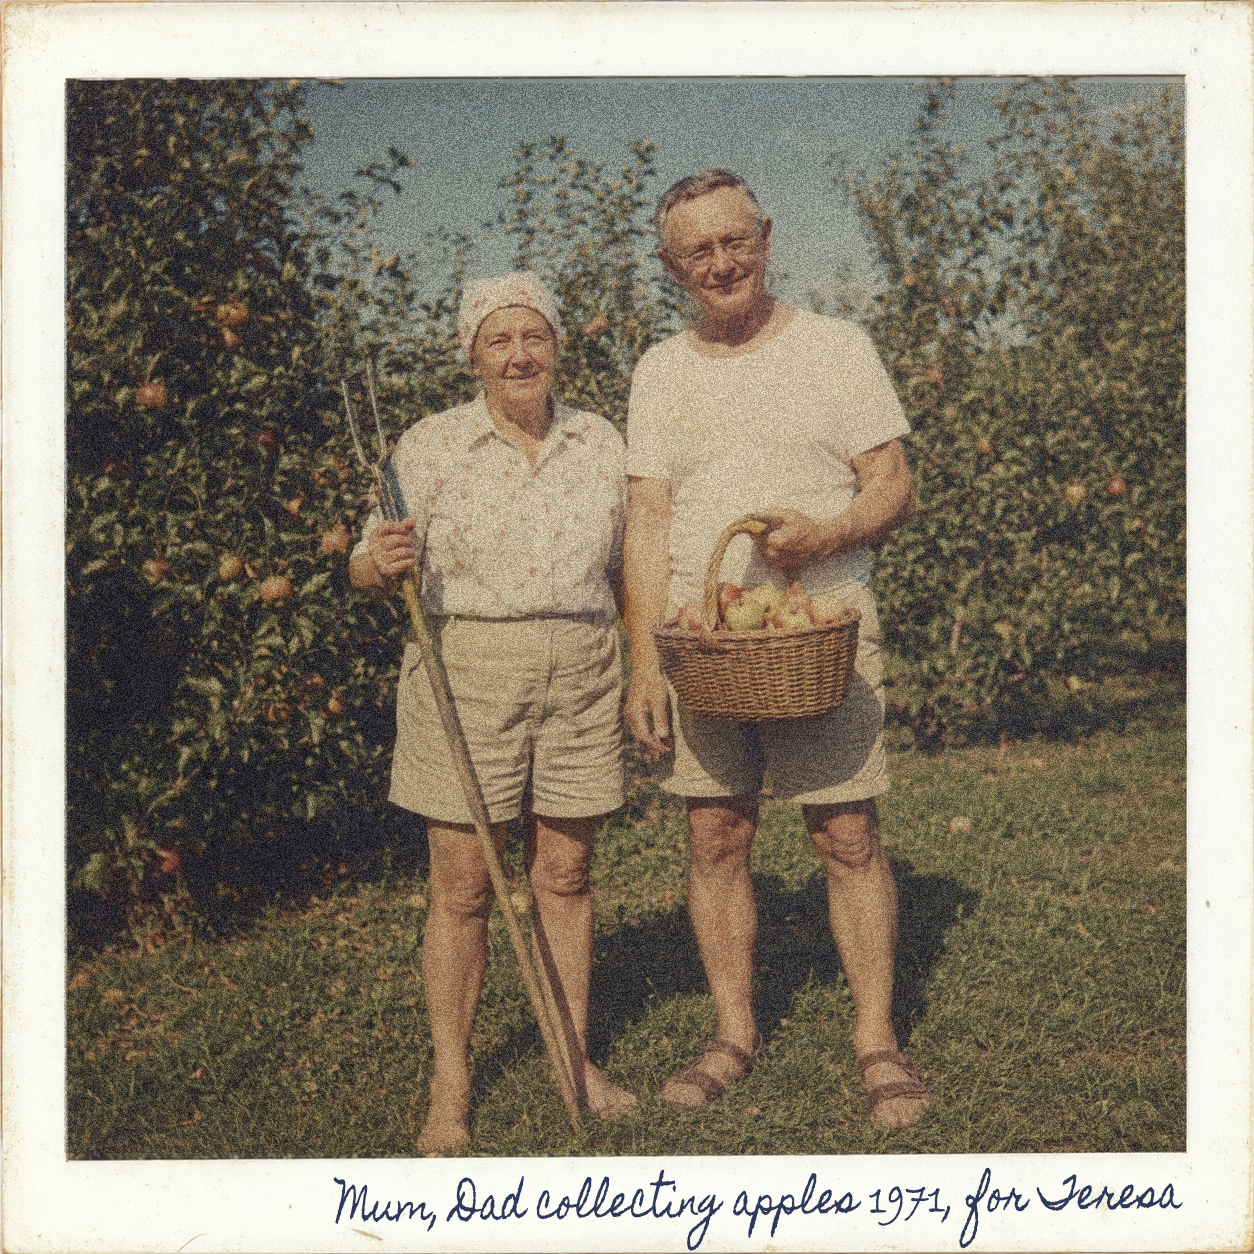
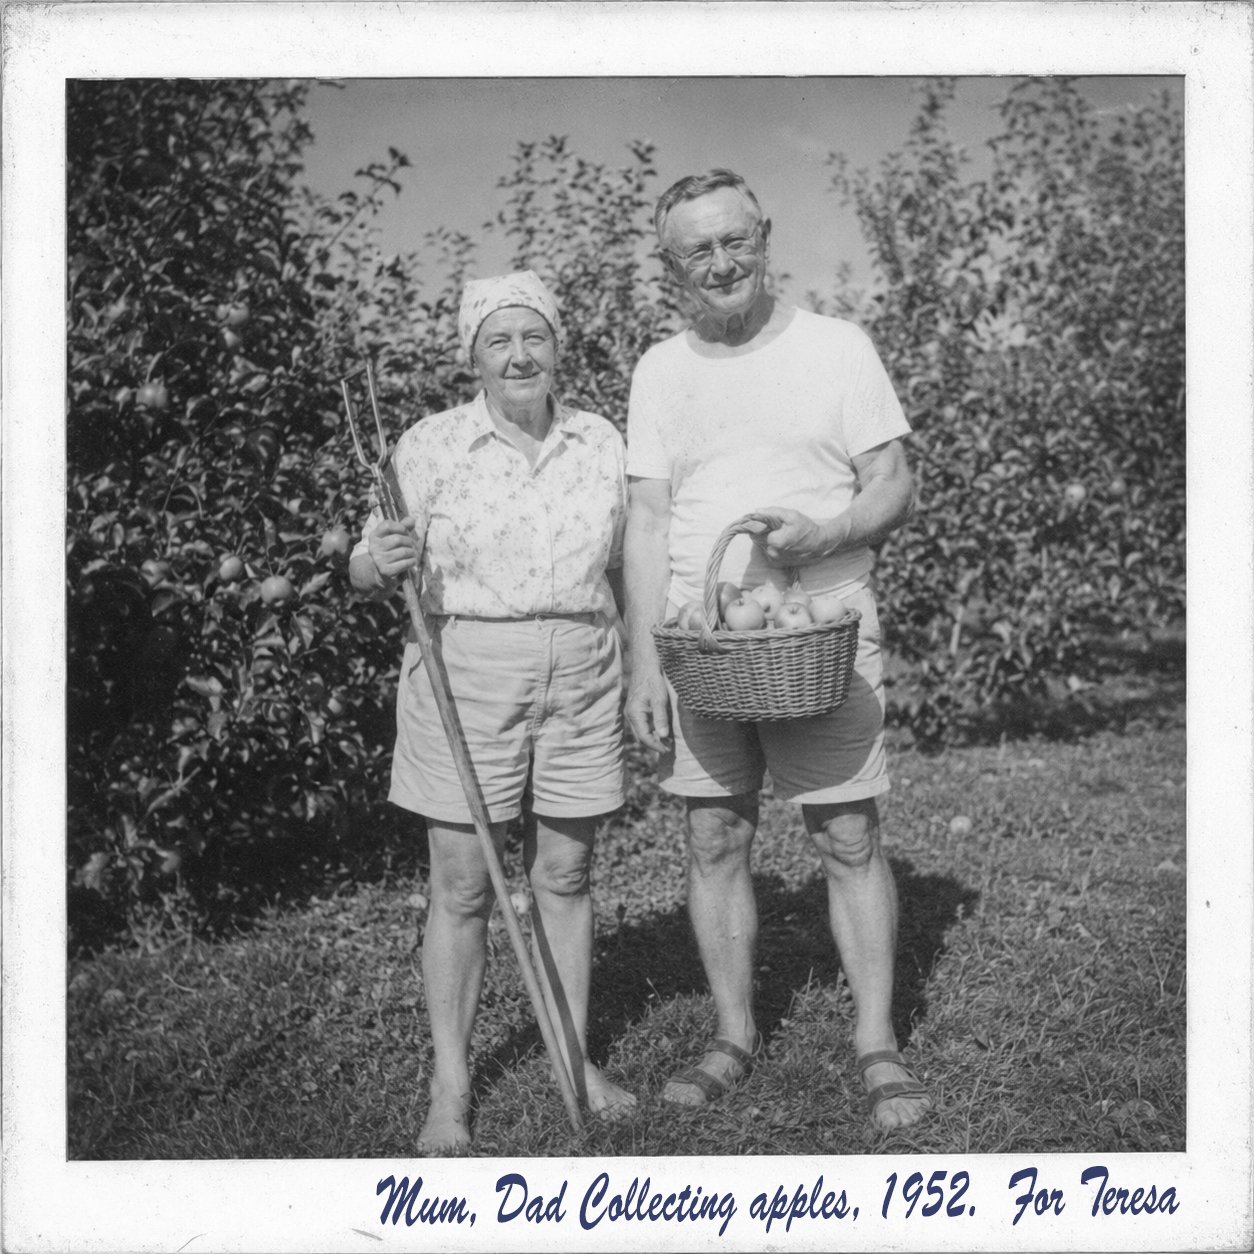
.

diff --git a/docs/story-timeline.md b/docs/story-timeline.md
@@ -1,27 +1,28 @@
 # Story Timeline & Character Audit
 
 A snapshot of every character, date and connection findable in the shipped
-assets as of **11 August 2026** (third pass). This is a developer reference,
+assets as of **11 August 2026** (sixth pass). This is a developer reference,
 not player-facing content — it exists to keep new faxes, records and photos
 consistent with what's already been written, and it will go stale as soon as
 new content lands. Re-derive it (or at least re-check the "Known gaps and
 inconsistencies" section) after any story-content pass, rather than trusting
 it blindly.
 
-Since the previous pass: Harry Whitmore's 1907 book is now fully coded (it
-was a planned-but-missing item before), a new McLeod-pendant mystery thread
-was added, and several previously-flagged issues are now resolved —
-`arthurWhitmore.png`'s path case now matches the file on disk, the McLeod
-apple-orchard photo path now correctly points under `assets/photos/` and the
-file exists, William McLeod's death year is consistent (1957) everywhere,
-and the "Guardians of the North" evidence is awarded from the library record
-itself rather than the unrelated newspaper article that briefly held it.
+Since the previous pass: two of the three in-game login credentials turn out
+to be hidden in the evidence photo art itself (handwritten notes, not JSON
+text) rather than being undiscoverable as previously assumed — see §3,
+"Credentials hidden in evidence photos," both now verified to read exactly
+right. The `t.mcleod` archives account is identified as **Teresa McLeod**,
+William and Margaret's daughter, via a handwritten dedication on their
+orchard polaroid, dated 1952. Also spotted a Tony Spencer ↔ Anthony "Tony"
+Worthing naming coincidence to go with the existing Simon one.
 
 Sources audited: `assets/story_en.md`, `assets/reportsEvidences_en.json`,
 `assets/photos_evidences_en.json`, `assets/web-content/{zoomsearch,library,
-police,archives,standalone-pages}.json`, and the photo files under
+police,archives,standalone-pages}.json`, the photo files under
 `assets/photos/` / `rawResources/` including the ones not yet wired into any
-catalog.
+catalog, and — this pass — the actual pixel content of the photos named in
+§3 below, not just their JSON metadata.
 
 ---
 
@@ -63,6 +64,7 @@ career"), that's noted rather than invented.
 | 1934 | Constable James Fletcher retires from the NWMP, having been awarded the King's Police Medal for his role in the 1901 search effort. Settles in Gray Stacks, Alberta with wife Hannah (Fletcher, the author — see above) and pet Labrador Oscar. | `police.json` (jamesfletcher) |
 | 1951 | James Fletcher dies. | `police.json` (jamesfletcher) |
 | 1952 | George Mackenzie, aged 80, has his celebrated moustache measured before a crowd at a local sports hall. | photo `georgemackenzie.png` |
+| 1952 | A family polaroid captioned "Mum, Dad collecting apples, 1952. For Teresa" shows William and Margaret McLeod at the Maple Grove orchard, five years before William's death. The note identifies **Teresa** as their daughter — she is who holds the archives Subscriber account (`t.mcleod`). | photo `williamAndMargaretMcLeodApples.png` |
 | 1954 | George Mackenzie dies. | `police.json` (georgemackenzie) |
 | 1955 | Emile Beaulieu dies, aged 84. | `police.json` (emilebeaulieu) |
 | 1957 | William McLeod dies peacefully, aged 87. Remembered in an obituary in the *Maple Grove Times* ("Remembering a great Guardian") for his steady leadership and for recovering the gold pendant during the 1901 search. Margaret continues the orchard/property alone. | `police.json` (williammcleod); `zoomsearch.json` (margaretmcleod); `archives.json` (williammcleodfindpendant) |
@@ -81,7 +83,7 @@ career"), that's noted rather than invented.
 - **Andrew John Spencer** (b. 12 Aug 1888 – d. 28 Jul 1901) — elder brother. Returns from the cave fatally injured; his account of the second visit, cut short when he loses consciousness, is the only first-hand record of what happened.
 - **Askew Arnold "Arnie" Spencer** (b. 6 Nov 1891 – missing 27 Jul 1901, presumed dead) — the missing boy the entire case centers on.
 - **John & Diane Spencer** — the boys' parents; ex-banker turned farmer and his wife. Diane's reaction ("You'll never set foot in that forest again!") is the story's most direct emotional beat.
-- **Simon** and **Tony** — the Spencers' two farmhands, early thirties, present the morning the boys leave for the cave the second time. *Possible unconfirmed link:* a "Simon Cresswell" appears in the 1904 Honey Dew Caving Club photo — same first name, same district, plausible timeframe — but nothing in the assets confirms they're the same person. Worth deciding deliberately rather than by coincidence if this thread gets developed.
+- **Simon** and **Tony** — the Spencers' two farmhands, early thirties, present the morning the boys leave for the cave the second time. *Possible unconfirmed link:* the 1904 Honey Dew Caving Club photo has both a "Simon Cresswell" and an "Anthony Worthing" — Tony being a standard nickname for Anthony — same first names, same district, plausible timeframe, and *both* farmhands would map to *both* of these club members in the same photo. Nothing in the assets confirms either link, but the pair reinforces itself. Worth deciding deliberately rather than by coincidence if this thread gets developed.
 - **The stranger on the path** — unnamed man who tells the boys about the "bottomless" hole and the old mine, then vanishes into the trees. Never identified or revisited by any other asset. A loose thread by construction.
 
 ### North-West Mounted Police (the searchers)
@@ -92,7 +94,7 @@ career"), that's noted rather than invented.
 - **Cpl. Emile Beaulieu** — later a celebrated professional climber; retires 1915, dies 1955.
 - **Lt. William McLeod** — frontier officer, recovered a gold pendant during the 1901 search that never made it into the case file, retires with honour in 1920, settles in Ontario with wife Margaret, dies 1957 aged 87 (obituary: "Remembering a great Guardian," *Maple Grove Times*).
 - **Cpl. George Mackenzie** — quietly dependable service, retires 1931, dies 1954; locally famous for the longest moustache in Canada.
-- **Administrator / t.fairchild / t.mcleod** — police- and archive-database accounts with no attached character yet. `t.fairchild` (police, Level 3, `mapleLaw91`) is credentials Brian Whitmore passes along, sourced from an unnamed contact. `t.mcleod` (archives Subscriber account, `apple1`) shares William McLeod's surname closely enough to suggest a descendant, but nothing confirms it. Both are loose threads ready to be given a face later.
+- **Administrator / t.fairchild** — police-database accounts with no attached character yet. `t.fairchild` (Level 3, `mapleLaw91`) is credentials Brian Whitmore passes along, sourced from an unnamed contact — still a loose thread.
 
 ### The Whitmore family (the benefactors)
 ```
@@ -113,12 +115,37 @@ Brian's great-uncle, but "Uncle" reads as the informal family term).
 ### Authors, family, and everyone else
 - **Hannah Fletcher** — author of *Mysteries of the Old North West* (1906); James Fletcher's wife, living with him in Gray Stacks, Alberta.
 - **Margaret McLeod** — William's wife, ran an apple orchard near Maple Grove, Ontario.
+- **Teresa McLeod** — William and Margaret's daughter, identified by the handwritten dedication "Mum, Dad collecting apples, 1952. For Teresa" on the family orchard polaroid. Holds the archives Subscriber account (`t.mcleod` / `apple1`), whose credentials are themselves handwritten in the corner of the "Guardians of the North" evidence photo — see "Credentials hidden in evidence photos" below.
 - **Honey Dew Caving Club, 1904 roster** — Thomas O'Rourke, Simon Cresswell, Henry Whitmore, Robert Johnstone, Anthony Worthing, Sam Henderson, Paul Greenwood, plus one still-unidentified member. Only O'Rourke and Henry Whitmore have any further biography elsewhere.
 - **Cat J Roman** — author of *Guardians of the North* (1988), the source of McLeod's retirement photo. No other appearances.
 
 ---
 
-## 3. Current mystery threads
+## 3. Credentials hidden in evidence photos
+
+Two of the three login credentials in the game are not exposed anywhere in
+JSON text — they're handwritten directly onto the evidence photo art, only
+visible if the player actually looks closely (e.g. the magnifier) at the
+photo once it's been collected. This is the actual intended discovery path
+for these logins, not a hidden dev cheat, and it changes the practical
+order of a playthrough: both Library pickups below should happen *before*
+their matching login is needed. See `happypath.md`, which has been updated
+to route through these.
+
+| Photo (Library pickup) | What's handwritten on it | Unlocks |
+| --- | --- | --- |
+| `mysteriesOldNW.png` ("Mysteries of the Old North West" evidence) | Top-right corner: **"j.fletcher / oscar123"** | Police Records Level 1. Matches the live `j.fletcher` / `oscar123` account exactly. |
+| `guardiansOfTheNorth.png` ("Guardians of the North" evidence) | Top-left corner: **"Ontario apples (t.mcleod / apple1)"** | Canada Newspaper Archive Subscriber access. Matches the live `t.mcleod` / `apple1` account exactly. |
+
+Once logged into the Archives with those credentials, searching Ontario +
+`mcleod` (Level 1, see `happypath.md` §3d) surfaces the `williammcleodfindpendant`
+article, which displays `williamAndMargaretMcLeodApples.png` — the polaroid
+that identifies `t.mcleod` as **Teresa McLeod**, William and Margaret's
+daughter (see the character index above).
+
+---
+
+## 4. Current mystery threads
 
 Things that read as deliberate, unresolved hooks rather than mistakes —
 worth knowing about so future content doesn't accidentally "solve" or
@@ -126,22 +153,24 @@ contradict them before they're meant to be addressed.
 
 - **The gold pendant.** William McLeod recovered a gold pendant during the August 1901 search (per his 1957 obituary), but the official three-month case report filed that October lists only a handkerchief, a lunchbox, rope and a torch — no pendant. Its ownership is described as "classified... due to the investigation officially still remaining open."
 - **The vandalised page.** The library's copy of Harry Whitmore's 1907 book has had a page torn out. The catalog description of that missing page explicitly ties it to McLeod's pendant, making the book a plausible link between the pendant and the case that never recorded it. Nobody in the shipped content is on record as knowing who vandalised it.
-- **Simon the farmhand vs. Simon Cresswell.** Possibly the same person, possibly not — see the character index above.
+- **Simon and Tony the farmhands vs. Simon Cresswell and Anthony "Tony" Worthing.** Both 1901 farmhands share a first name with a member of the 1904 caving-club photo — see the character index above. If real, it would put both farmhands in the caving club three years after the tragedy.
 - **The stranger on the path.** Warns the boys about the hole, admits he hasn't heard the mine mentioned "in years," and is never seen again.
-- **t.fairchild and t.mcleod.** Two named-but-faceless database accounts, introduced purely as credentials rather than characters.
+- **t.fairchild.** Still a named-but-faceless database account, introduced purely as credentials rather than a character (unlike `t.mcleod`, now identified as Teresa McLeod — see above).
 
 ---
 
-## 4. Known gaps and inconsistencies still open
+## 5. Known gaps and inconsistencies still open
 
 These are observations, not fixes — flagging them here rather than silently
 editing content that may be intentional or already slated for a rewrite.
 
-None outstanding as of this pass. The two previously listed here —
+None outstanding as of this pass. The handwritten police username on
+`mysteriesOldNW.png` previously read `james.f` against the live `j.fletcher`
+account; the art now reads `j.fletcher` and matches exactly.
 
 ---
 
-## 5. Source map
+## 6. Source map
 
 | File | What it covers |
 | --- | --- |
@@ -153,3 +182,4 @@ None outstanding as of this pass. The two previously listed here —
 | `assets/web-content/library.json` | Hannah Fletcher's, Cat J. Roman's and Harry Whitmore's books. |
 | `assets/web-content/archives.json` | Newspaper coverage of the above, plus the McLeod pendant obituary — gated by subscriber access level. |
 | `assets/web-content/standalone-pages.json` | Whitmore & Sons' own site; the Honey Dew Caving Club's own site. |
+| `assets/photos/{mysteriesOldNW,guardiansOfTheNorth,williamAndMargaretMcLeodApples}.png` | Carry story content in the image art itself, not the JSON — see §3. |

diff --git a/docs/happypath.md b/docs/happypath.md
@@ -1,0 +1,205 @@
+# Happy Path — a full playthrough, start to current end-of-content
+
+A step-by-step walkthrough of everything a player can currently do, in an
+order that reaches 100% of the shipped evidence and story content. Written
+as of **11 August 2026**, revised after discovering that two of the three
+login credentials are hidden in the evidence photo art itself. Like
+`story-timeline.md`, this is a developer reference — a QA/dev script for
+exercising every fax, record and evidence pickup in the game as it exists
+today — not something shown to the player. Re-derive it after any new
+content lands; it will drift the moment a new fax trigger, record or
+evidence item is added.
+
+**Ordering matters here in a way it might not look like at first glance.**
+Both Police Records Level 1 and the Archives Subscriber login are gated
+behind credentials that are handwritten directly onto two Library evidence
+photos (not present in any JSON text) — so both Library pickups need to
+happen, and the resulting photos need to be examined closely, *before*
+those logins are attempted. Sections below are ordered to reflect that.
+
+---
+
+## 0. Starting state
+
+New Game seeds:
+- **Story folder**: the background story (`story_en.md`).
+- **Photos folder**: `askewAndrew` (the only photo of the boys together) and `caveEntrance`.
+- **Reports folder**: empty.
+- **Facsimile**: empty queue, two timers armed (see step 2).
+
+---
+
+## 1. Read the desk
+
+1. Open the **Story** stack and read the background story — the 1901
+   tragedy in full, as Andrew told it before he died.
+2. Open the **Photos** folder and look at the two starting photos.
+3. Optionally explore **Notes** and **Paint** (ten free-form pages each,
+   no story content) and the desk **ashtray** (cosmetic). None of these
+   gate anything.
+
+---
+
+## 2. Let the intro faxes arrive
+
+The facsimile machine is timer-driven from the moment New Game is clicked
+(`scheduleNewGameIntroFacsimiles()` in `ui.js`):
+
+| When | Fax | Result |
+| --- | --- | --- |
+| ~10s after New Game | **"Welcome to the Investigation"** | Orients the player: read the story, explore the desk. Purely informational — `awardsEvidence: false`, never becomes a report. |
+| ~40s after New Game | **The missing person report** | Becomes the **missingReport** evidence in the Reports folder — the actual 1901 NWMP case file. |
+
+Open the **Facsimile** machine after each arrives (flashing light) and
+close the window to commit it. Nothing else in the game is blocked while
+waiting for these — the computer is usable immediately.
+
+---
+
+## 3. The computer — CaveOS → Netscape
+
+Click the desk computer, open **Netscape**. Do ZoomSearch and Library
+first — neither needs a login, and Library is where the other two sites'
+credentials come from.
+
+### 3a. ZoomSearch (no login)
+
+| Search | Result |
+| --- | --- |
+| `john baxley` | Awards **"Search Party outside Black Pine Silver Mine Shaft B"** photo. |
+| `black pine mine` (or `silver mine` / `mine`) | Awards **"No More!"** photo (the 1851 mine-closure poster). |
+| `mine cart` (or `minecart` / `truck` / `mine truck`) | No evidence — but the "Wacky Miners" result contains a clickable link to `whitmore-sons-iron-machinery-co.com/mining` (see step 3f). |
+| `margaret mcleod` / `apples` / `maple grove` | Flavour only — Margaret's later life. |
+| `harry whitmore` / `henry whitmore` | Flavour only — Harry's biography and Niagara Falls photo. |
+| `jerome whitmore` | Flavour only — how Jerome ended up running the family firm. |
+| `brian whitmore` | Flavour only — Brian's succession and the "today" framing. |
+
+### 3b. Library (no login)
+
+Author + title must both match exactly.
+
+| Author | Title | Result |
+| --- | --- | --- |
+| `Hannah Fletcher` | `Mysteries of the Old North West` | Awards the **mysteriesOfTheOldNorthWest** photo. **Examine it closely (magnifier) — "j.fletcher / oscar123" is handwritten in the top-right corner.** This is the Police Records Level 1 login (see step 3c) and matches the live account exactly. |
+| `Cat J Roman` | `Guardians Of The North` | Awards the **library-guardiansofthenorth** photo. **Examine it closely — "Ontario apples (t.mcleod / apple1)" is handwritten beside it.** This is the Archives Subscriber login (see step 3d), and matches the live account exactly. |
+| `Henry Whitmore` | `Strange Things Found In Even Stranger Places` | Awards the **"Strange Things Found In Even Stranger Places"** photo — the vandalised page, see `story-timeline.md` §4 for the pendant connection it hints at. |
+
+### 3c. Police Records
+
+Login is exact-match, case-sensitive. Levels stack — each new login
+replaces the session at a higher level.
+
+| Login as | Password | Unlocks |
+| --- | --- | --- |
+| *(default)* Public | — | Level 0: `james fletcher`, `emile` / `emile beaulieu`, `william` / `william mcleod`, `george` / `george mackenzie` — all flavour, no evidence. |
+| `j.fletcher` | `oscar123` | Level 1 — from the handwriting on `mysteriesOldNW.png` (step 3b). Unlocks `thomas o'rourke` / `thomas orourke` / `thomas` — **not evidence itself**, but its report body contains a clickable link to `honeydewcavingclub.com`. Click it now (see step 3f). |
+| `b.whitmore` | `ironVeins15` | Level 2: `whitmore` / `arthur` / `arthur whitmore` — **opening this record (not just finding it) triggers a second fax**, see step 4. |
+| `t.fairchild` | `mapleLaw91` | Level 3 — nothing currently requires this level. Dead end for now (see "Current content boundary" below). |
+| `administrator` | `atlas` | Level 5 — same; nothing currently requires it either. |
+
+`b.whitmore` / `ironVeins15` only exists after reading the fax in step 4a
+below, so this is the one place order genuinely matters beyond the
+Library-first rule: you must do 3f (get to the map) → 4a (read the Level 2
+fax) before you can reach the `arthurwhitmore` record here.
+
+### 3d. Canada Newspaper Archive
+
+Province + keyword must both match exactly, and login gates by level.
+
+| Login as | Password | Then search (province + keyword) | Result |
+| --- | --- | --- | --- |
+| *(default)* Free | — | Alberta + `hannah fletcher` (or `hannah` / `mysteries of the old north west`) | Flavour only — no evidence. |
+| `t.mcleod` | `apple1` | Saskatchewan + `harry` / `henry` / `strange things` / `strange` | Flavour only — coverage of Harry's book launch. |
+| `t.mcleod` | `apple1` | Ontario + `william` / `margaret` / `mcleod` / `lieutenant` / `apples` | Flavour only, but displays `williamAndMargaretMcLeodApples.png` — a family polaroid whose handwritten caption identifies `t.mcleod` as **Teresa McLeod**, William and Margaret's daughter. Also the source of the gold-pendant mystery thread. |
+
+`t.mcleod` / `apple1` comes from the handwriting on `library-guardiansofthenorth`
+(step 3b) — this login can't happen before that pickup. The archive
+currently awards **no evidence at all** — every record here has
+`awardsEvidence: false`. It's pure lore/mystery-thread material.
+
+### 3f. Standalone pages
+
+Reached either by typing the URL directly into the browser address bar, or
+by clicking through from wherever they're linked:
+
+| URL | How it's normally found | Result |
+| --- | --- | --- |
+| `http://www.whitmore-sons-iron-machinery-co.com/mining` | Linked from ZoomSearch's `minecart` result (step 3a); also spelled out as plain text in the Level 2 Whitmore fax (step 4a). | No evidence — company flavour page, name-drops "Grandpa Arthur" and "Uncle Harry." |
+| `http://honeydewcavingclub.com` | Linked from the Police `thomasorourke` record (step 3c, Level 1) — **the only place this URL appears**. | Awards **two** photos in one visit: **standalone-honeydewcavingclub-team** (the 1904 club photo) and **standalone-honeydewcavingclub** (the 1912 cave map). Picking up the map photo specifically is what fires the Level 2 Whitmore fax — see step 4a. |
+
+---
+
+## 4. The Whitmore credentials chain
+
+Two more facsimiles, both triggered by player actions rather than timers.
+
+### 4a. Level 2 — triggered by evidence
+
+Acquiring the **standalone-honeydewcavingclub** photo (the cave map, from
+step 3f) fires `WHITMORE_MINEMAP_MILESTONE_FAX_CONFIG` automatically.
+Open the Facsimile machine: **"Message from Brian Whitmore"** gives
+`b.whitmore` / `ironVeins15`, and closing the window commits it as a
+Reports-folder evidence item. This is what unlocks Level 2 in step 3c.
+
+### 4b. Level 3 — triggered by opening a record, not just finding it
+
+With `b.whitmore` logged in, search Police Records for `arthur whitmore`
+and **click into the record** (search alone isn't enough — see
+`facsimile-event-trigger-guide.md` §"Web record-open triggers"). This
+fires a second fax: **"Message from Brian Whitmore"** again, this time with
+`t.fairchild` / `mapleLaw91` (Level 3). Read and close it to commit it as a
+third Reports-folder evidence item.
+
+---
+
+## 5. Current content boundary
+
+At this point every fax trigger and evidence-award path that exists in the
+shipped assets has fired. There is nothing further to do:
+
+- **Level 3 and Level 5 police access** (`t.fairchild`, `administrator`)
+  don't currently gate anything — no record requires above Level 2.
+- **`insideCaveLookingBack`** has a full photo catalog entry but no unlock
+  path anywhere (no blueprint, no web record, no fax) — it can never
+  actually be collected right now.
+- **The gold pendant and the vandalised book page** (see
+  `story-timeline.md` §4, "Current mystery threads") are left dangling —
+  nothing in the shipped content resolves either, even after identifying
+  Teresa McLeod.
+
+### Full evidence inventory at this point
+
+**Photos folder (9):** askewAndrew, caveEntrance, "No More!", "Search Party
+outside Black Pine Silver Mine Shaft B", standalone-honeydewcavingclub-team,
+standalone-honeydewcavingclub, mysteriesOfTheOldNorthWest,
+library-guardiansofthenorth, "Strange Things Found In Even Stranger Places."
+
+**Reports folder (3):** missingReport, facsimile-whitmore-police-credentials,
+facsimile-whitmore-level3-credentials.
+
+**Story folder (1):** the background story (default, never grows).
+
+---
+
+## 6. Quick reference — the shortest input sequence
+
+For re-testing the whole game end to end without re-reading the narration
+above:
+
+1. New Game.
+2. Wait ~10s, open Facsimile, close it (welcome fax).
+3. Wait ~30s more, open Facsimile, close it (missingReport fax → evidence).
+4. Computer → Netscape → ZoomSearch → `john baxley` → open result.
+5. ZoomSearch → `black pine mine` → open result.
+6. Library → `Hannah Fletcher` / `Mysteries of the Old North West` → open result → examine closely for the `j.fletcher` / `oscar123` note.
+7. Library → `Cat J Roman` / `Guardians Of The North` → open result → examine closely for the `t.mcleod` / `apple1` note.
+8. Library → `Henry Whitmore` / `Strange Things Found In Even Stranger Places` → open result.
+9. Police Records → login `j.fletcher` / `oscar123` → search `thomas orourke` → open result → click the `honeydewcavingclub.com` link.
+10. On the Honey Dew Caving Club page: evidence awards automatically (2 photos).
+11. Open Facsimile, close it (Level 2 Whitmore fax → evidence).
+12. Police Records → login `b.whitmore` / `ironVeins15` → search `arthur whitmore` → open result.
+13. Open Facsimile, close it (Level 3 Whitmore fax → evidence).
+14. (Optional, no evidence) Archives → login `t.mcleod` / `apple1` → search Saskatchewan + `strange` and Ontario + `mcleod` for the remaining lore, including the Teresa McLeod reveal.
+
+18 evidence-relevant actions, plus the ~40s of real time for the intro
+faxes. That's the entire game as of this pass.
